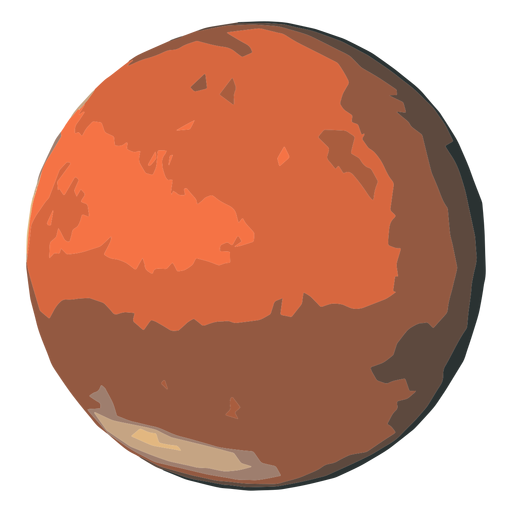
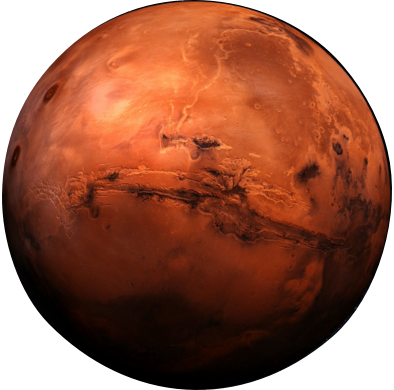
Change images to PNG

diff --git a/src/views/AboutView.jsx b/src/views/AboutView.jsx
@@ -7,38 +7,66 @@ import './AboutView.scss';
 function AboutView() {
   return (
     <div className="about">
-      <div className="navbar">
-        <Link to="/welcome" style={{ color: 'white' }}>
-          <BsArrowLeft size="30px" />
-        </Link>
-        <h2>MISSION MARS</h2>
+      <div className="about-content">
+        <div className="navbar">
+          <Link to="/welcome" style={{ color: 'white' }}>
+            <BsArrowLeft size="30px" />
+          </Link>
+          <h2>MISSION MARS</h2>
+        </div>
+        <h3>Why Mission Mars?</h3>
+        <p>COVID 19 has impacted us in 3 major ways:</p>
+        <h4>1. Prepare for the future</h4>
+        <p>
+          It revealed an increasing need to prepare for the future and to start
+          thinking in a proactive way, before we are faced with larger issues.
+        </p>
+        <h4>2. Spice up remote meetings</h4>
+        <p>
+          Remote collaboration became the norm, carrying with it meeting fatigue
+          caused by a never-ending schedule of video calls.
+        </p>
+        <h4>3. Make team-building fun again</h4>
+        <p>
+          No more physical team events, making an informal moment to have fun
+          into yet another static videocall.
+        </p>
+        <h4>
+          This is why we created a future-inspired game to test new methods for
+          remote collaboration.
+        </h4>
+        <p>
+          The Mars One Competition is a gamified service design workshop about
+          space exploration, reflecting on today’s challenges for humanity.
+        </p>
+        <h3>Who are we?</h3>
+        <p>Behind this project there are three passionate service designers:</p>
+        <h4>Concept & design</h4>
+        <div className="contributors">
+          <div className="contributor">
+            <img src="/images/marjorie.png" alt="marjorie" />
+            <h4>Marjorie</h4>
+            <p>Future thinker & enthusiast</p>
+          </div>
+          <div className="contributor">
+            <img src="/images/martina.png" alt="martina" />
+            <h4>Martina</h4>
+            <p>Games & Sci-fi lover</p>
+          </div>
+          <div className="contributor">
+            <img src="/images/valentina.png" alt="valentina" />
+            <h4>Valentina</h4>
+            <p>Facilitation expert</p>
+          </div>
+        </div>
+        <h4>Website</h4>
+        <div className="contributor">
+          <img src="/images/alessandro.png" alt="alessandro" />
+          <h4>Alessandro</h4>
+          <p>Front-End Developer</p>
+        </div>
+        <p>Get in touch to try the game or know more about it! </p>
       </div>
-      <h3>Why Mission Mars?</h3>
-      <p>COVID 19 has impacted us in 3 major ways:</p>
-      <h4>1. Prepare for the future</h4>
-      <p>
-        It revealed an increasing need to prepare for the future and to start
-        thinking in a proactive way, before we are faced with larger issues.
-      </p>
-      <h4>2. Spice up remote meetings</h4>
-      <p>
-        Remote collaboration became the norm, carrying with it meeting fatigue
-        caused by a never-ending schedule of video calls.
-      </p>
-      <h4>3. Make team-building fun again</h4>
-      <p>
-        No more physical team events, making an informal moment to have fun into
-        yet another static videocall.
-      </p>
-      <h4>
-        This is why we created a future-inspired game to test new methods for
-        remote collaboration.
-      </h4>
-      <p>
-        The Mars One Competition is a gamified service design workshop about
-        space exploration, reflecting on today’s challenges for humanity.
-      </p>
-
       <Footer />
     </div>
   );

diff --git a/public/index.html b/public/index.html
@@ -1,20 +1,28 @@
 <!DOCTYPE html>
 <html lang="en">
-
-<head>
-  <meta charset="utf-8" />
-  <link rel="icon" href="%PUBLIC_URL%/favicon.ico" />
-  <meta name="viewport" content="width=device-width, initial-scale=1" />
-  <meta name="theme-color" content="#000000" />
-  <meta name="description" content="Web site created using create-react-app" />
-  <link rel="apple-touch-icon" href="%PUBLIC_URL%/logo192.png" />
-  <link href="https://fonts.googleapis.com/css2?family=Roboto:wght@100;400;700&display=swap" rel="stylesheet">
-  <!--
+  <head>
+    <meta charset="utf-8" />
+    <link rel="icon" href="%PUBLIC_URL%/favicon.ico" />
+    <meta
+      name="viewport"
+      content="width=device-width, initial-scale=1, user-scalable=no"
+    />
+    <meta name="theme-color" content="#000000" />
+    <meta
+      name="description"
+      content="Web site created using create-react-app"
+    />
+    <link rel="apple-touch-icon" href="%PUBLIC_URL%/logo192.png" />
+    <link
+      href="https://fonts.googleapis.com/css2?family=Roboto:wght@100;400;700&display=swap"
+      rel="stylesheet"
+    />
+    <!--
       manifest.json provides metadata used when your web app is installed on a
       user's mobile device or desktop. See https://developers.google.com/web/fundamentals/web-app-manifest/
     -->
-  <link rel="manifest" href="%PUBLIC_URL%/manifest.json" />
-  <!--
+    <link rel="manifest" href="%PUBLIC_URL%/manifest.json" />
+    <!--
       Notice the use of %PUBLIC_URL% in the tags above.
       It will be replaced with the URL of the `public` folder during the build.
       Only files inside the `public` folder can be referenced from the HTML.
@@ -23,13 +31,13 @@
       work correctly both with client-side routing and a non-root public URL.
       Learn how to configure a non-root public URL by running `npm run build`.
     -->
-  <title>React App</title>
-</head>
+    <title>React App</title>
+  </head>
 
-<body>
-  <noscript>You need to enable JavaScript to run this app.</noscript>
-  <div id="root"></div>
-  <!--
+  <body>
+    <noscript>You need to enable JavaScript to run this app.</noscript>
+    <div id="root"></div>
+    <!--
       This HTML file is a template.
       If you open it directly in the browser, you will see an empty page.
 
@@ -39,6 +47,5 @@
       To begin the development, run `npm start` or `yarn start`.
       To create a production bundle, use `npm run build` or `yarn build`.
     -->
-</body>
-
+  </body>
 </html>

diff --git a/src/views/WelcomeView.jsx b/src/views/WelcomeView.jsx
@@ -5,19 +5,13 @@ import Header from '../components/Header';
 import Footer from '../components/Footer';
 import './WelcomeView.scss';
 
-import { ReactComponent as MarsImage } from './../assets/images/mars.svg';
-// import { ReactComponent as DownArrow } from './../assets/icons/down-arrow.svg';
-import { ReactComponent as AstronautImage } from './../assets/images/astronaut.svg';
-import { ReactComponent as SatelliteImage } from './../assets/images/satellite.svg';
-import { ReactComponent as GazingImage } from './../assets/images/gazing.svg';
-
 function WelcomeView() {
   return (
     <div className="welcome-view">
       <Header link="About" to="/about" />
       <div className="intro">
         <h1 className="title-intro">MISSION MARS</h1>
-        <MarsImage className="image-intro" />
+        <img className="image-intro" src="/images/mars.png" alt="mars" />
       </div>
       <div className="welcome-section">
         <h3>Do you have what it takes to save life on Mars?</h3>
@@ -42,7 +36,11 @@ function WelcomeView() {
           <h2>HOW TO PLAY</h2>
           <BsArrowRight size="30px" />
         </div>
-        <AstronautImage className="astrounaut-image" />
+        <img
+          className="astrounaut-image"
+          src="/images/astronaut.png"
+          alt="astronaut"
+        />
         <h3>Meet your team</h3>
         <p>
           Mission Mars is a gamified remote design workshop about space
@@ -50,7 +48,11 @@ function WelcomeView() {
           will guide your team to solve the Mars colony challenges based on the
           colonists needs & technological possibilities.
         </p>
-        <SatelliteImage className="satellite-image" />
+        <img
+          className="satellite-image"
+          src="/images/satellite.png"
+          alt="satellite"
+        />
         <h3>Explore the cards</h3>
         <p>
           On this website you will be able to access the card deck necessary to
@@ -71,7 +73,7 @@ function WelcomeView() {
           technologies from the 2010's and new modern technologies that the
           colony is now deploying on Mars One.
         </p>
-        <GazingImage className="gazing-image" />
+        <img className="gazing-image" src="/images/gazing.png" alt="gazing" />
         <h3>Reflect on your ideas</h3>
         <p>
           Speculating on future interplanetary issues can be a way to explore

diff --git a/src/components/Footer/index.jsx b/src/components/Footer/index.jsx
@@ -1,12 +1,19 @@
 import React from 'react';
+import { AiOutlineHeart } from 'react-icons/ai';
 import './style.scss';
 
 const Footer = () => {
   return (
     <footer>
-      <p>Made on Planet Earth with</p>
-      <p>Design: Martina Bonetti, Marjorie Broudieu</p>
-      <p>Website: Alessandro Amarri</p>
+      <hr class="solid" />
+      <div className="designed">
+        <h4>Designed on Earth with</h4>
+        <AiOutlineHeart />
+      </div>
+      <div className="contributors">
+        <p>Design: Martina Bonetti, Marjorie Broudieu</p>
+        <p>Website: Alessandro Amarri</p>
+      </div>
     </footer>
   );
 };

diff --git a/src/views/AboutView.scss b/src/views/AboutView.scss
@@ -1,4 +1,9 @@
 .about {
+  margin: 0px;
+  padding: 0px;
+}
+
+.about-content {
   display: flex;
   flex-direction: column;
   padding: 0px 40px;
@@ -26,5 +31,29 @@
 
   h2 {
     padding-left: 10px;
+  }
+}
+
+.contributors {
+  display: flex;
+  flex-direction: row;
+  align-items: center;
+  justify-content: center;
+}
+
+.contributor {
+  margin-top: 16px;
+  display: flex;
+  flex-direction: column;
+  margin-right: 5%;
+
+  img {
+    width: 80px;
+  }
+
+  p {
+    width: 80px;
+    font-size: 12px;
+    font-style: italic;
   }
 }

diff --git a/src/components/Footer/style.scss b/src/components/Footer/style.scss
@@ -1,10 +1,21 @@
 footer {
   background-color: #000000;
-  color: #ffffff;
-  padding: 50px;
-  font-family: Graphik;
-  font-size: 12px;
-  font-style: italic;
-  letter-spacing: 0;
-  line-height: 0px;
+
+  h4 {
+    font-size: 14px;
+    padding: 0 20px;
+  }
+
+  p {
+    padding: 0 20px;
+    font-size: 12px;
+    width: 150px;
+    height: 40px;
+  }
+}
+
+.designed {
+  display: flex;
+  flex-direction: row;
+  align-items: center;
 }

diff --git a/src/views/WelcomeView.scss b/src/views/WelcomeView.scss
@@ -29,12 +29,13 @@
 .title-intro {
   position: absolute;
   font-size: 27px;
-  top: 50%;
+  top: 40%;
   left: 50%;
   transform: translate(-50%, -50%);
 }
 
 .image-intro {
+  width: 195px;
   display: block;
   margin-left: auto;
   margin-right: auto;
@@ -102,9 +103,11 @@
 }
 
 .satellite-image {
+  width: 180px;
   margin: 50px auto;
 }
 
 .gazing-image {
+  width: 273px;
   margin: 50px auto;
 }

diff --git a/src/App.scss b/src/App.scss
@@ -84,7 +84,7 @@ h4 {
 p {
   font-family: 'Roboto', sans-serif;
   font-size: 16px;
-  font-weight: 300;
-  letter-spacing: 0;
+  font-weight: lighter;
+  letter-spacing: 0.22px;
   line-height: 19px;
 }
